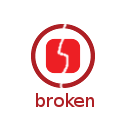
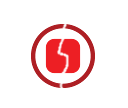
spin on install

Changed region(s): [[0.2188, 0.1667, 0.75, 0.8611]]

diff --git a/client/public/javascripts/app.js b/client/public/javascripts/app.js
@@ -894,7 +894,7 @@ window.require.register("templates/home_application", function(exports, require,
   var interp;
   buf.push('<a');
   buf.push(attrs({ 'href':("#apps/" + (app.slug) + "/") }, {"href":true}));
-  buf.push('><div class="application-inner"><p><img src=""/></p><p class="app-title">' + escape((interp = app.name) == null ? '' : interp) + '</p></div></a><div class="application-outer center"><div class="btn-group"><button class="btn remove-app">remove</button><button class="btn update-app">update</button></div><div><button class="btn btn-large start-stop-btn">started</button></div></div>');
+  buf.push('><div class="application-inner"><p><img src=""/></p><p class="state-label">Installing</p><p class="app-title">' + escape((interp = app.name) == null ? '' : interp) + '</p></div></a><div class="application-outer center"><div class="btn-group"><button class="btn remove-app">remove</button><button class="btn update-app">update</button></div><div><button class="btn btn-large start-stop-btn">started</button></div></div>');
   }
   return buf.join("");
   };
@@ -1393,9 +1393,11 @@ window.require.register("views/home_application", function(exports, require, mod
     }
 
     ApplicationRow.prototype.afterRender = function() {
+      this.icon = this.$('img');
       this.updateButton = new ColorButton(this.$(".update-app"));
       this.removeButton = new ColorButton(this.$(".remove-app"));
       this.startStopBtn = new ColorButton(this.$(".start-stop-btn"));
+      this.stateLabel = this.$('.state-label');
       this.listenTo(this.model, 'change', this.onAppChanged);
       return this.onAppChanged(this.model);
     };
@@ -1405,26 +1407,28 @@ window.require.register("views/home_application", function(exports, require, mod
 
 
     ApplicationRow.prototype.onAppChanged = function(app) {
-      var icon;
       switch (this.model.get('state')) {
         case 'broken':
-          this.$('img').spin(false).attr('src', "img/broken.png");
+          this.icon.attr('src', "img/broken.png");
+          this.stateLabel.show().text('broken');
           this.removeButton.displayGrey('abort');
           this.updateButton.displayGrey('retry');
           return this.startStopBtn.hide();
         case 'installed':
-          icon = "apps/" + app.id + "/icons/main_icon.png";
-          this.$('img').spin(false).attr('src', icon);
+          this.icon.attr('src', "apps/" + app.id + "/icons/main_icon.png");
+          this.stateLabel.hide();
           this.removeButton.displayGrey('remove');
           this.updateButton.displayGrey('update');
           return this.startStopBtn.displayGrey('stop this app');
         case 'installing':
-          this.$('img').spin('large').attr('src', "img/installing.png");
+          this.icon.attr('src', "img/installing.gif");
+          this.stateLabel.show().text('installing');
           this.removeButton.displayGrey('abort');
           this.updateButton.hide();
           return this.startStopBtn.hide();
         case 'stopped':
-          this.$('img').spin(false).attr('src', "img/stopped.png");
+          this.icon.attr('src', "img/stopped.png");
+          this.stateLabel.show().text('stopped');
           this.removeButton.displayGrey('remove');
           this.updateButton.hide();
           return this.startStopBtn.displayGrey('start this app');

diff --git a/client/public/stylesheets/app.css b/client/public/stylesheets/app.css
@@ -6342,8 +6342,7 @@ html {
   line-height: 30px;
   font-weight: bold;
 }
-.application .broken-notifier {
-  display: none;
+.application .state-label {
   font-size: 18px;
   color: #d73131;
 }
